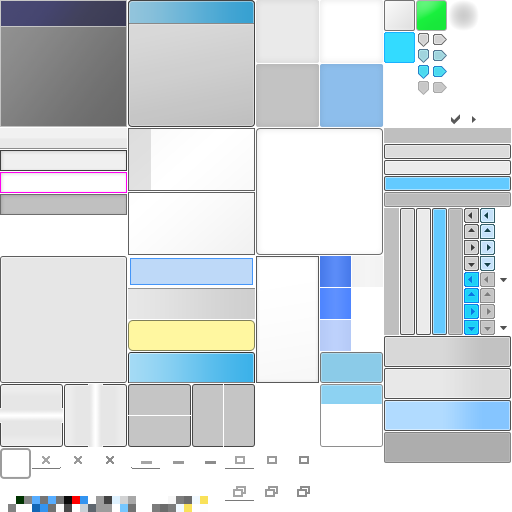
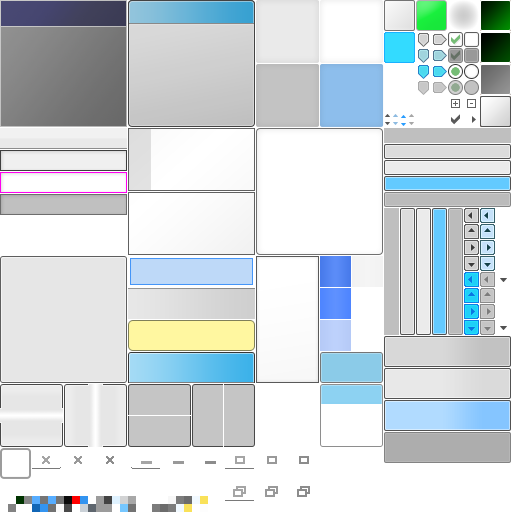
Add temporary testing button

Changed region(s): [[0.875, 0.0, 1.0, 0.25], [0.75, 0.2188, 0.8125, 0.25]]

diff --git a/ATX.cpp b/ATX.cpp
@@ -15,6 +15,11 @@ void ATX::Main::initialize(int displayW, int displayH, Gwen::Controls::Base* pCa
 
 	camera = Structs::Waypoint(offsetWidth,offsetHeight,0);
 
+	button1 = new Gwen::Controls::Button(canvas);
+	button1->SetBounds(10, 10, 200, 50);
+	//button1->Dock(Gwen::Pos::Top);
+	//button1->SetShouldDrawBackground(false);
+
 	window = new Gwen::Controls::WindowControl(canvas);
 	window->SetTitle(L"Flights");
 	//window->MakeModal(false);

diff --git a/ATX_aircraft.cpp b/ATX_aircraft.cpp
@@ -46,6 +46,7 @@ ATX::Aircraft::Aircraft(Gwen::Controls::Base* parent, float ex, float ey, float 
 	button = new Gwen::Controls::Button(parent);
 	button->SetSize(508, 66);
 	button->Dock(Gwen::Pos::Top);
+	button->SetShouldDrawBackground(false);
 	button->SetImage(buttonImage);
 	button->SetPadding(Gwen::Padding());
 	button->SetMargin(Gwen::Margin());

diff --git a/ATX.h b/ATX.h
@@ -20,6 +20,7 @@ namespace ATX
 		bool rClick;
 
 		Gwen::Controls::Base* canvas;
+		Gwen::Controls::Button* button1;
 		Gwen::Controls::WindowControl* window;
 
 		int offsetWidth;
